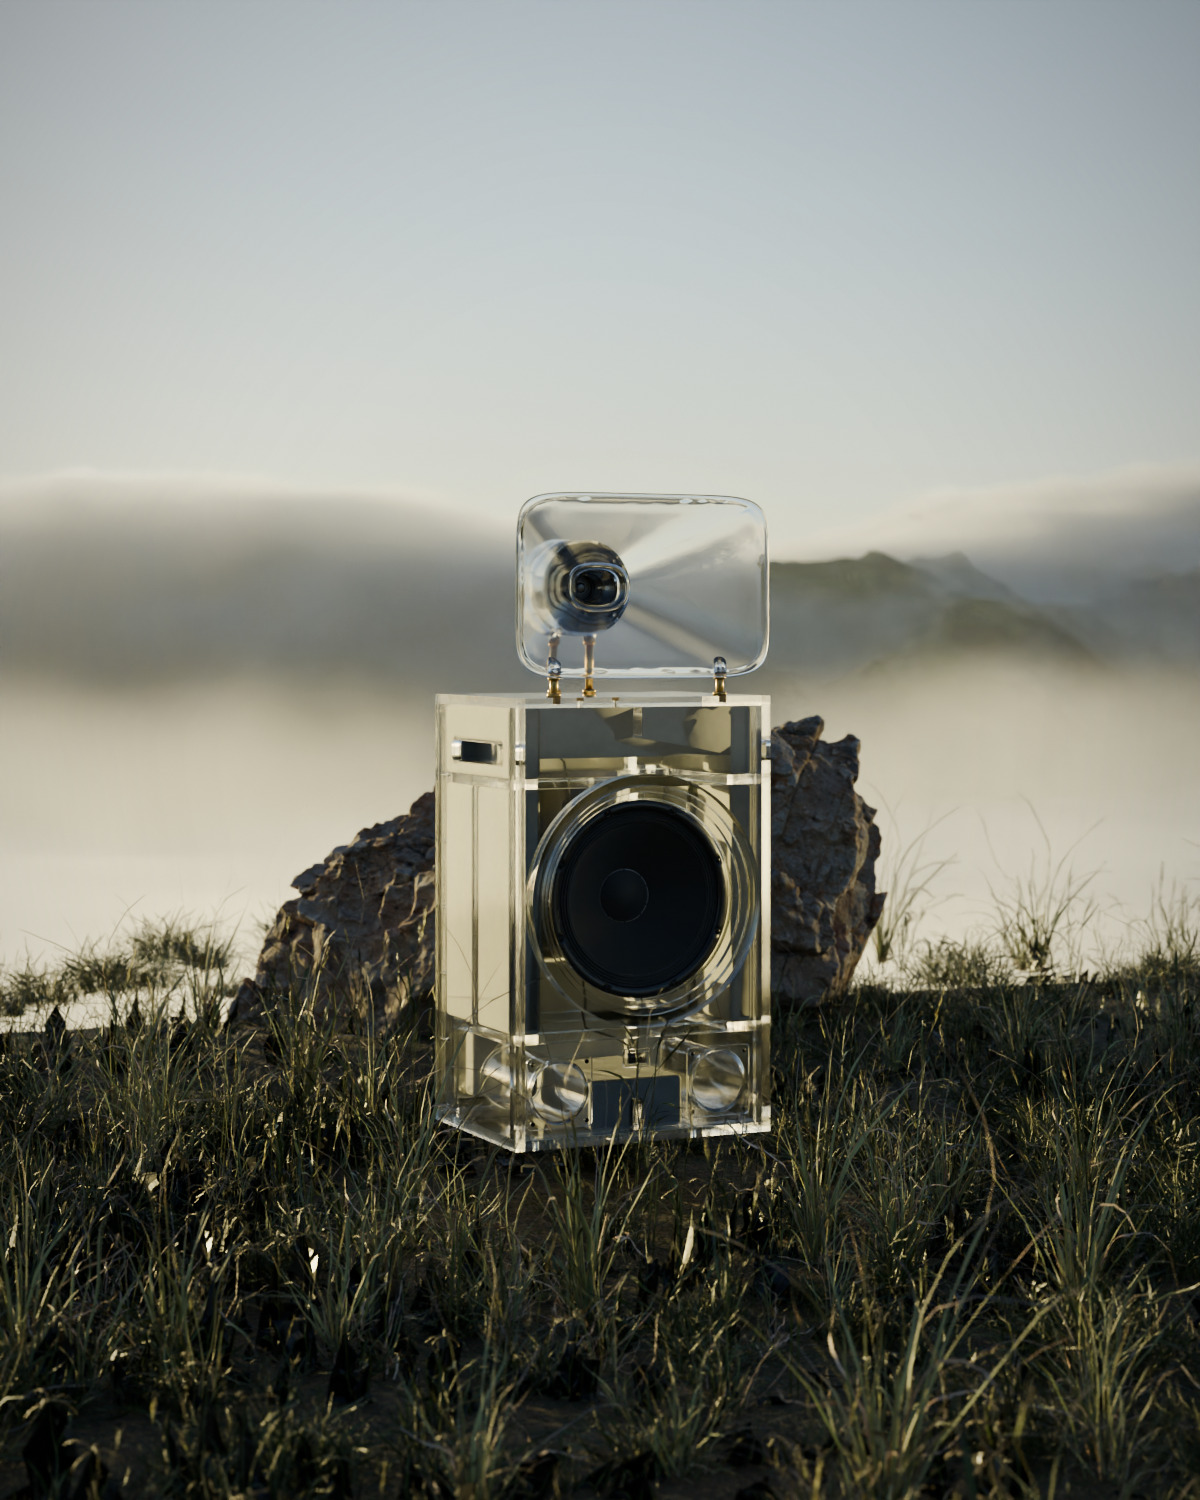
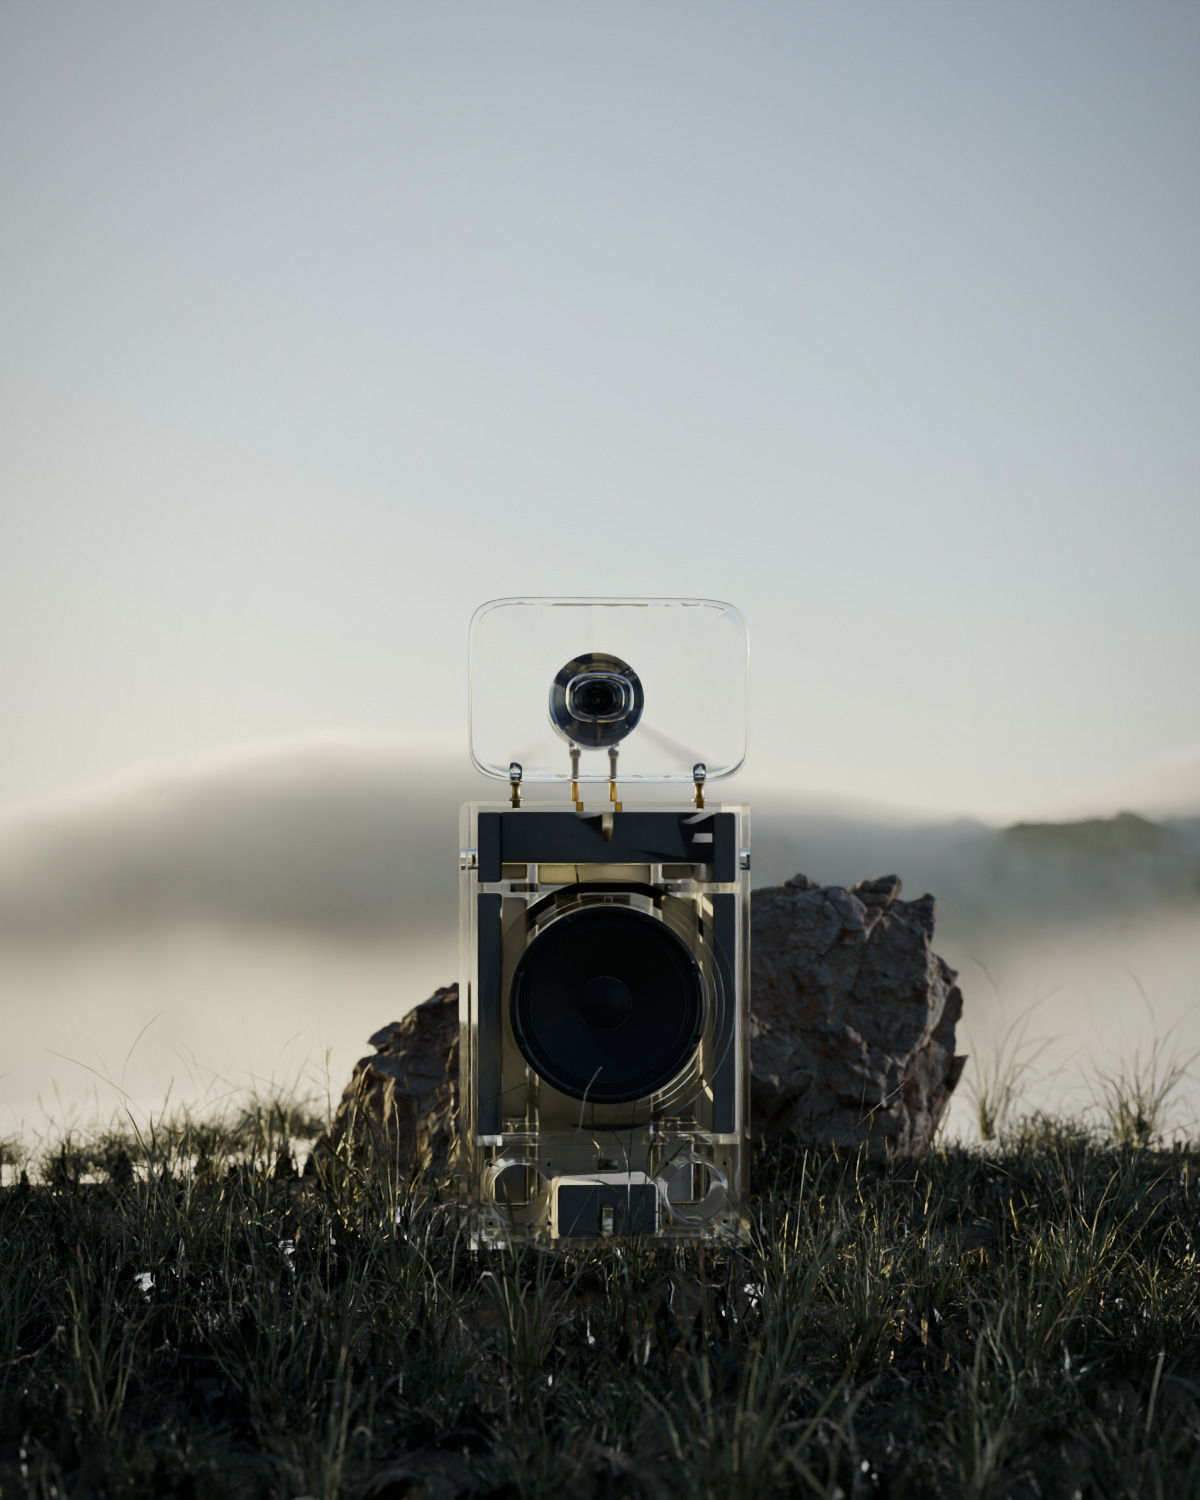
biomes: Fog polished, reframed, 5 deg off, real cards out of frame, the gate: all four PASS; crease 1.9 / 2.3
Claude-Session: https://claude.ai/code/session_01BAaPTnGwdpP4WKGVD3vbqx

diff --git a/renders/2026-11-03/barkhorn/habitats/CHECK.md b/renders/2026-11-03/barkhorn/habitats/CHECK.md
@@ -22,7 +22,7 @@ Withdrawn:
 |---|---|---|---|---|---|
 | Dust (polished) | PASS | PASS | PASS | PASS | Sand bounce 0.35, no tumbleweed, 64 samples. Amber-red acrylic: the woofer, ring, braces, ports, crossover box, its screws and the desert behind show through. The rail sits on the ripples: luma 81 under the front edge against 107 for open sand. The contact shadow is weak. The red patch is the tinted shadow. The horn is a smooth glassy shell, with the driver showing as a smooth bulb and no X. |
 | Ice (polished) | PASS | PASS | PASS | PASS | Bedded 22 mm, 64 samples. The woofer, ring, braces, ports and posts show through the front, and the cabin window shows through the side. The bottom batt is clearly in view (`ice-portrait-batt-crop.jpg`, 2x). A dark contact band: luma 108 under the base against 121-123 for open snow. No glow. The horn is a smooth glassy shell with the driver at its throat and no X. |
-| Fog (polished) | PASS | PASS | PASS | PASS | Sun at 110 (side, not behind), 96 samples, 48 min. Clear birch: the woofer frame, braces, shelves, ports, terminal plate, and the rock and grass behind show through. The base sits down in the grass with a dark shadow, the contact line mostly hidden by blades. No glow. The polished horn is clear, with faint corner creases and refraction, no X. |
 | Ember (polished, turned) | PASS | PASS | PASS | PASS | rotate_z 12 (10 deg off the camera line), crack_r 2.0, camera at 0.8 m, 96 samples. Crease 8.3 / 4.3, left and right of the driver (`flare.py`; Dust 7.8, Ice 7.2): the sky wedge is gone. The 12 o'clock ring glint is gone (red max 233 -> 62). The woofer, braces and ports show through, and the lava through the side. Contact: luma 12 under the base against 26 beside it. |
 | Haze (polished, keyed from the side) | PASS | PASS | PASS | PASS | rotate_z -10 (5 deg off; at 10 deg off the narrow side face mirrored the sky as a flat sheet). The sun lamp at azimuth 100 and 6 deg up, the sky turned to 187.8, and the set's visible sun disk moved to azimuth 100, 6 deg up, out of frame, so the picture has one light source. 96 samples. Crease 6.6 / 5.6 (Dust 7.8, Ice 7.2). Dark violet: the woofer, frame, braces, ports and lower box show through, mostly in the lower third. Haze passes 11% through the box against Dust's 45%, a fact for the owner. A dark contact band in the grass. No glow. |
 | Acid (polished, 4 deg off) | PASS | PASS | PASS | PASS | rotate_z -8, sink 0.03 (18 mm into the puddle), 64 samples. Crease 5.9 / 10.8 (Dust 7.8, Ice 7.2; it was 26.7 at 28 deg off). The woofer, frames, braces, ports, posts and screws show through. The reflection starts at the base edge. The horn is smooth, with very faint creases invisible at phone size. |
+| Fog (polished, reframed, real cards) | PASS | PASS | PASS | PASS | Camera 0.30 m lower (lens rise 0.18), azimuth -10, f/4. rotate_z -5 (5 deg off; at 20 deg off the side face read as a cream sheet, see held/). The sun neutral white at 110. Real flag and card: the sun-side card left out, the other out of frame at 2.2 m. 96 samples. Crease 1.9 / 2.3 (Dust 7.8, Ice 7.2): the whole horn on plain sky. The left cut-edge strip is still warm, b* median 9.7 (p90 17.2) against the sky's -3.6; the target was 5 or less. Clear: the woofer, braces, posts, ports and the terminal block, with the grass and rock behind, show through. |
